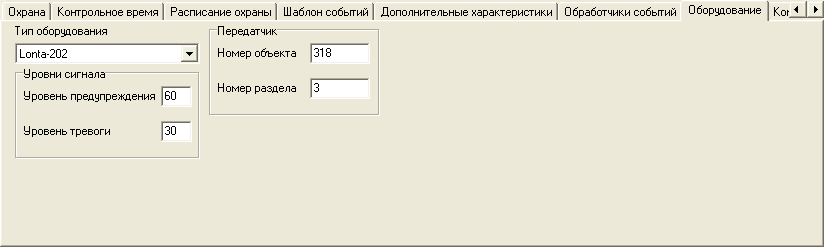
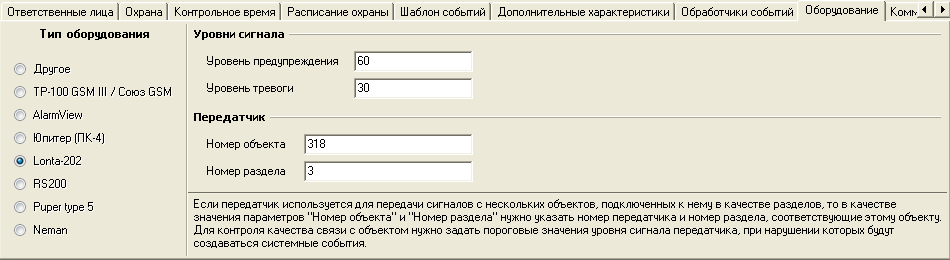
описание вкладки "Оборудование"

diff --git a/russian/05-object-manager.md b/russian/05-object-manager.md
@@ -414,25 +414,65 @@
 
 ## Оборудование {#object-manager-equipment}
 
-Вкладка «Оборудование» предназначена для того, чтобы указать тип используемого на объекте оборудования.
+Вкладка «Оборудование» модуля «Менеджер объектов» предназначена для того, чтобы указать тип используемого на объекте оборудования и произвести необходимые настройки. Ввод информации об оборудовании обеспечивает корректную поддержку «Центром охраны» установленных на объекте устройств.
 
 ![Вкладка «Оборудование»][id-05-14]
 
-### Тип оборудования
+Для настройки оборудования следует выделить нужный объект и перейти в режим редактирования. Из представленного на вкладке «Оборудование» списка систем необходимо выбрать используемый на объекте тип оборудования: «ТР-100 GSM III / Союз GSM», «AlarmView», «Lonta-202», «RS200», «Puper type 5» или «Neman». В случае, если на объекте установлено оборудование другой системы, нужно указать тип «Другое». 
 
-Для корректной работы алгоритмов обработки сигналов «Центра охраны» необходимо указать правильный тип системы используемого на объекте оборудования: «AlarmView», «Lonta-202», «Puper type 5» или «RS-200». В случае, если на объекте установлено оборудование другой системы, нужно указать тип «Другой».
+Для типов оборудования «ТР-100 GSM III / Союз GSM», «Lonta-202», «Puper type 5», «Neman» и «Другое» следует указать значения параметров для настройки оборудования. Важно помнить, что при копировании объекта для нового объекта копируется только информация об установленном типе оборудования, но не значения заданных параметров.
 
-### Уровни сигнала
+### «Другое»
 
-Для объекта, на котором используется оборудование системы «Lonta-202» можно изменить значения для пороговых уровней сигнала, принимаемого с объекта. Если уровень сигнала, принимаемого с объекта, станет меньше значения, заданного в поле «Уровень предупреждения», то будет создано системное событие с кодом «ZZXV». Если же уровень сигнала, принимаемого с объекта, будет меньше значения, заданного в поле «Уровень тревоги», то будет создано системное событие с кодом «ZZXU». С помощью системных событий с кодами «ZZXV» и «ZZXU» можно автоматически контролировать уровень принимаемого сигнала, привлекая внимание оператора только к тем объектам, где требуется его вмешательство.
+Если в представленном списке типов оборудования нет системы, используемой на объекте, следует выбрать тип «Другое». При этом в разделе «Передатчик» можно задать значения для параметров «Номер объекта» и «Номер раздела».
+
+Если объект является одним из разделов на контрольной панели, то в поле «Номер объекта» нужно задать объектовый номер контрольной панели, а в поле «Номер раздела» - номер раздела, соответствующий объекту.
+
+### «ТР-100 GSM III / Союз GSM»
+
+При использовании на объекте контрольной панели производства фирмы «Си-Норд» или «PIMA Electronic Systems Ltd.» с коммуникатором «ТР-100 GSM III» или передатчиком «Союз GSM» из представленного списка типов оборудования следует выбрать «ТР-100 GSM III / Союз GSM». 
+
+Подключение этой системы не требует дополнительной настройки на вкладке «Оборудование»: в поле «Идентификатор» автоматически определяется идентификатор коммуникатора, установленного на объекте.
+
+Идентификатор коммуникатора - это уникальный идентификационный номер его процессора. Программирование устройства позволяет закрепить за его идентификатором один или несколько объектов.
+
+При замене передатчика, подключенного к контрольной панели на объекте, значение параметра «Идентификатор» следует удалить. Сделать это можно с помощью кнопки «Удалить», расположенной напротив поля «Идентификатор». После удаления прежнего значения идентификатор нового передатчика автоматически определится в поле «Идентификатор».
+
+Удалить значение данного параметра также необходимо при демонтаже оборудования на объекте или смене типа оборудования. 
+
+Удалить идентификатор и сменить тип оборудования можно как для одного объекта, так и для всех объектов, закрепленных за данным идентификатором. Для этого следует воспользоваться диалоговым окном, появляющимся при смене типа оборудования. При изменении всех объектов, закрепленных за идентификатором, для текущего объекта можно указать любой из представленных в списке типов оборудования, а для остальных объектов по умолчанию указывается тип оборудования «Другое».
+
+### «AlarmView»
+
+Тип оборудования «AlarmView» необходимо выбрать при использовании на объекте одноименной охранной контрольной панели с фотоподтверждением тревог производства компании «PIMA Electronic Systems Ltd.».
+
+### «Lonta-202»
+
+Тип оборудования «Lonta-202» необходимо выбрать при использовании на объекте радиоканальной системы централизованной охраны «Lonta-202» (прежнее название - «Риф Стринг RS202») производства компании «Альтоника».
+
+При этом в разделе «Передатчик» можно задать значения для параметров «Номер объекта» и «Номер раздела». Если объект подключается к радиопередатчику в качестве одного из разделов, то в поле «Номер объекта» нужно задать объектовый номер передатчика, а в поле «Номер раздела» - номер раздела, соответствующий объекту. 
+
+Значения, указанные в полях «Номер объекта» и «Номер раздела» являются приоритетными по отношению к стандартным номерам объектов «Центра охраны»: при приеме событий сначала просматриваются значения, введенные на закладке «Оборудование» и только потом — значения номеров объектов.
+
+Для контроля качества связи с объектом, на котором используется оборудование системы «Lonta-202», нужно задать пороговые значения уровней сигнала передатчика. Сделать это можно в разделе «Уровни сигнала», указав соответствующие значения параметров в полях «Уровень предупреждения» и «Уровень тревоги».
+
+Если уровень сигнала, принимаемого с объекта, станет меньше значения, заданного в поле «Уровень предупреждения», то будет создано системное событие с кодом «ZZXV». Если же уровень сигнала, принимаемого с объекта, будет меньше значения, заданного в поле «Уровень тревоги», то будет создано системное событие с кодом «ZZXU». С помощью системных событий с кодами «ZZXV» и «ZZXU» можно автоматически контролировать уровень принимаемого сигнала, привлекая внимание оператора только к тем объектам, где требуется его вмешательство.
 
 Необходимо отметить, что для объектов, на которых установлено оборудование системы «Lonta-202» в модуле «Дежурный оператор» доступна функция просмотра принимаемого уровня сигнала. В карточке объекта присутствует закладка, которая позволяет отобразить уровень сигнала в виде графика или в виде таблицы значений.
 
-### Передатчик
+### «RS200»
 
-В ситуации, когда несколько объектовых приборов подключаются к одному радиопередатчику системы «Lonta-202», для идентификации таких приборов необходимо указать объектовый номер передатчика в поле «Номер объекта», а номер раздела, который соответствует прибору, в поле «Номер раздела». 
+Тип оборудования «RS200» необходимо выбрать при использовании на объекте радиоканальной системы централизованной охраны «Риф Стринг RS200» производства компании «Альтоника».
 
-Значения, указанные в полях «Номер объекта» и «Номер раздела» являются приоритетными по отношению к стандартным номерам объектов «Центра охраны»: при приеме событий сначала просматриваются значения, введенные на закладке «Оборудование» и только потом — значения номеров объектов.
+### «Puper type 5»
+
+Тип оборудования «Puper type 5» необходимо выбрать при использовании на объекте системы охранно-пожарной сигнализации производства фирмы «Puper».
+
+### «Neman»
+
+Тип оборудования «Neman» необходимо выбрать при использовании на объекте системы безопасности и мониторинга «Неман». 
+
+При этом в разделе «Параметры модуля связи» на вкладке «Оборудование» необходимо задать значения для параметров «ID основного модуля связи» и «UID объекта». В поле «ID  основного модуля связи» следует ввести номер канала, прописанный при настройках канала связи в программном модуле «Модуль связи «НЕМАН». В поле «UID объекта» - идентификационный номер устройства, программно присвоенный объекту в «Модуле связи «НЕМАН» при добавлении прибора в канал связи.
 
 ## Комментарий
 
